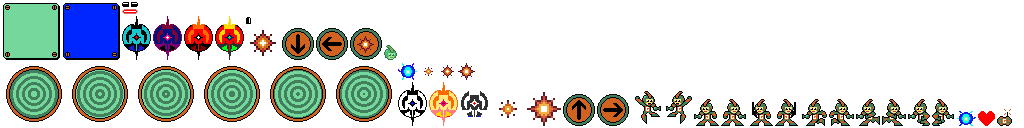
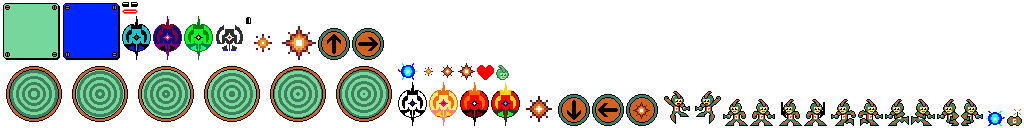
add guard enemy

Changed region(s): [[0.4375, 0.6875, 1.0, 1.0], [0.1562, 0.1875, 0.4062, 0.4688], [0.4688, 0.5, 0.5, 0.625]]

diff --git a/core/src/com/x555l/gigagal/entities/enemies/GuardEnemy.java b/core/src/com/x555l/gigagal/entities/enemies/GuardEnemy.java
@@ -1,0 +1,83 @@
+package com.x555l.gigagal.entities.enemies;
+
+import com.badlogic.gdx.math.Vector2;
+import com.badlogic.gdx.utils.TimeUtils;
+import com.x555l.gigagal.entities.Platform;
+import com.x555l.gigagal.entities.bullets.enemyBullets.EnemyLaser;
+import com.x555l.gigagal.level.Level;
+import com.x555l.gigagal.util.Assets;
+import com.x555l.gigagal.util.Constants;
+import com.x555l.gigagal.util.Enum;
+import com.x555l.gigagal.util.Util;
+
+/**
+ * Enemy move & stop alternatively
+ * When detect ggg, it chase after and shoot
+ */
+
+public class GuardEnemy extends PatrolPlatformEnemy {
+    private long lastTimeStop; // last time enemy stopped
+    private float stopTime; // how long enemy will stop next time
+    private float nextStop; // next time enemy will stop (since lastTimeStop)
+
+    public GuardEnemy(Level level, Platform platform) {
+        super(
+                level,
+                platform,
+                true,
+                Constants.Enemy.GUARD_ENEMY_HEALTH,
+                Constants.Enemy.GUARD_ENEMY_SPEED,
+                Constants.Enemy.GUARD_ENEMY_CENTER,
+                Assets.instance.enemy.guardEnemy
+        );
+
+        boundary = new CircularShape();
+        attackCoolDown = Constants.Enemy.GUARD_ENEMY_COOLDOWN;
+
+        createRandomStop();
+    }
+
+    @Override
+    public void update(float delta) {
+        // detect ggg
+        if (ableToDetectGigagal && detectGigagal()) {
+            attack(delta, level.getGigagal().position);
+        }
+
+        // stop and move
+        float time = Util.secondsSince(lastTimeStop);
+        if (time > nextStop) {
+            if (time > nextStop + stopTime)
+                createRandomStop();
+        } else {
+            position.x += velocity.x * delta;
+        }
+
+        // create floating effect
+        time = Util.secondsSince(startTime);
+        position.y = platform.yTop + center.y
+                + (float) Math.sin(2 * Math.PI / Constants.Enemy.GUARD_ENEMY_FLOAT_PERIOD * time) * Constants.Enemy.GUARD_ENEMY_FLOAT_AMPLITUDE;
+
+        // change direction at platform edges
+        changeDirectionAtEdges();
+    }
+
+    private void createRandomStop() {
+        lastTimeStop = TimeUtils.nanoTime();
+        nextStop = Util.randomFloat(Constants.Enemy.GUARD_ENEMY_NEXT_STOP_MIN, Constants.Enemy.GUARD_ENEMY_NEXT_STOP_MAX);
+        stopTime = Util.randomFloat(Constants.Enemy.GUARD_ENEMY_STOP_TIME_MIN, Constants.Enemy.GUARD_ENEMY_STOP_TIME_MAX);
+    }
+
+    @Override
+    void attack(float delta, Vector2 gigagal) {
+        push(Constants.Enemy.GUARD_ENEMY_SPEED_BOOST, delta, gigagal);
+        if (readyToAttack()) {
+            lastTimeAttack = TimeUtils.nanoTime();
+            level.getBullets().add(new EnemyLaser(
+                    position,
+                    level.getGigagal().position,
+                    level
+            ));
+        }
+    }
+}

diff --git a/core/src/com/x555l/gigagal/util/Constants.java b/core/src/com/x555l/gigagal/util/Constants.java
@@ -57,6 +57,7 @@ public class Constants {
         static final String ENEMY_PATROL_AIR = "enemy-patrol-air";
         static final String ENEMY_FAST = "enemy-fast";
         static final String ENEMY_SHOOT = "enemy-shoot";
+        static final String ENEMY_GUARD = "enemy-guard";
 
         // gigagal's bullets
         static final String GGG_BULLET_LEFT = "bullet-left";
@@ -106,7 +107,7 @@ public class Constants {
     public static class Gigagal {
         //position
         public static final Vector2 CENTER = new Vector2(8, 15);
-        public static final Vector2 GUN_POSITION = new Vector2(12, -13);
+        public static final Vector2 GUN_POSITION = new Vector2(12, -7);
 
         // size
         public static final float WIDTH = 15;
@@ -183,6 +184,19 @@ public class Constants {
         public static final float SHOOT_ENEMY_SPEED = 25f;
         public static final int SHOOT_ENEMY_HEALTH = 4;
         public static final float SHOOT_ENEMY_COOLDOWN = 0.5f;
+
+        // guard enemy
+        public static final Vector2 GUARD_ENEMY_CENTER = new Vector2(14, 22);
+        public static final float GUARD_ENEMY_SPEED = 20f;
+        public static final int GUARD_ENEMY_HEALTH = 3;
+        public static final float GUARD_ENEMY_SPEED_BOOST = 1.5f;
+        public static final float GUARD_ENEMY_COOLDOWN = 0.75f;
+        public static final float GUARD_ENEMY_STOP_TIME_MIN = 1;
+        public static final float GUARD_ENEMY_STOP_TIME_MAX = 3;
+        public static final float GUARD_ENEMY_NEXT_STOP_MIN = 2;
+        public static final float GUARD_ENEMY_NEXT_STOP_MAX = 7;
+        public static final float GUARD_ENEMY_FLOAT_AMPLITUDE = 6f;
+        public static final float GUARD_ENEMY_FLOAT_PERIOD = 2f;
     }
 
     /**

diff --git a/core/src/com/x555l/gigagal/entities/enemies/PatrolPlatformEnemy.java b/core/src/com/x555l/gigagal/entities/enemies/PatrolPlatformEnemy.java
@@ -47,6 +47,10 @@ abstract class PatrolPlatformEnemy extends Enemy {
         position.x += velocity.x * delta;
 
         // change direction at platform edges
+        changeDirectionAtEdges();
+    }
+
+    void changeDirectionAtEdges() {
         if (position.x < platform.x) {
             velocity.x *= -1;
             position.x = platform.x;
@@ -68,7 +72,7 @@ abstract class PatrolPlatformEnemy extends Enemy {
      * A convenient implementation of attack method for platform enemies
      * Enemy will move towards Gigagal and push
      */
-    void push(float delta, Vector2 gigagal) {
+    void push(float speedBoost, float delta, Vector2 gigagal) {
 
         // change direction & velocity to follow ggg
         if (gigagal.x < position.x) {
@@ -80,6 +84,6 @@ abstract class PatrolPlatformEnemy extends Enemy {
         }
 
         // move toward target
-        position.x += velocity.x * delta * Constants.Enemy.FAST_ENEMY_SPEED_BOOST;
+        position.x += velocity.x * delta * speedBoost;
     }
 }

diff --git a/core/src/com/x555l/gigagal/entities/GigaGal.java b/core/src/com/x555l/gigagal/entities/GigaGal.java
@@ -421,19 +421,10 @@ public class GigaGal {
             shootLastTime = TimeUtils.nanoTime();
             bullet--;
 
-            float xOffset = Constants.Gigagal.GUN_POSITION.x;
-            if (facing == Facing.LEFT)
-                xOffset = -xOffset;
-
-            Facing bulletFacing = null;
-
-            if (walkState != WalkState.FACE_UP)
-                bulletFacing = facing;
-
             level.getBullets().add(new GigagalBullet(
-                    position.x + xOffset,
+                    position.x + Constants.Gigagal.GUN_POSITION.x * ((facing == Facing.LEFT) ? -1 : 1),
                     position.y + Constants.Gigagal.GUN_POSITION.y,
-                    bulletFacing,
+                    ((walkState == WalkState.FACE_UP) ? null : facing),
                     level
             ));
         }

diff --git a/core/src/com/x555l/gigagal/util/Assets.java b/core/src/com/x555l/gigagal/util/Assets.java
@@ -170,6 +170,7 @@ public class Assets implements Disposable, AssetErrorListener {
         public AtlasRegion patrolAirEnemy;
         public AtlasRegion fastEnemy;
         public AtlasRegion shootEnemy;
+        public AtlasRegion guardEnemy;
 
         EnemyAssets(TextureAtlas atlas) {
             basicEnemy = atlas.findRegion(Constants.Asset.ENEMY_BASIC);
@@ -179,6 +180,7 @@ public class Assets implements Disposable, AssetErrorListener {
             patrolAirEnemy = atlas.findRegion(Constants.Asset.ENEMY_PATROL_AIR);
             fastEnemy = atlas.findRegion(Constants.Asset.ENEMY_FAST);
             shootEnemy = atlas.findRegion(Constants.Asset.ENEMY_SHOOT);
+            guardEnemy = atlas.findRegion(Constants.Asset.ENEMY_GUARD);
         }
     }
 

diff --git a/core/src/com/x555l/gigagal/util/Util.java b/core/src/com/x555l/gigagal/util/Util.java
@@ -4,8 +4,12 @@ import com.badlogic.gdx.Gdx;
 import com.badlogic.gdx.math.MathUtils;
 import com.badlogic.gdx.utils.TimeUtils;
 
+import java.util.Random;
+
 
 public class Util {
+    private static Random random = new Random();
+
     public static float secondsSince(long startTime) {
         return MathUtils.nanoToSec * (TimeUtils.nanoTime() - startTime);
     }
@@ -25,5 +29,9 @@ public class Util {
         Gdx.app.error(tag, ex.getMessage());
         Gdx.app.error(tag, Constants.Level.LOADING_ERROR_MESSAGE);
         exit(1);
+    }
+
+    public static float randomFloat(float min, float max) {
+        return random.nextFloat() * (max - min) + min;
     }
 }

diff --git a/core/src/com/x555l/gigagal/entities/enemies/FastEnemy.java b/core/src/com/x555l/gigagal/entities/enemies/FastEnemy.java
@@ -29,7 +29,7 @@ public class FastEnemy extends PatrolPlatformEnemy {
 
     @Override
     void attack(float delta, Vector2 gigagalPosition) {
-        push(delta, gigagalPosition);
+        push(Constants.Enemy.FAST_ENEMY_SPEED_BOOST, delta, gigagalPosition);
     }
 
     @Override
